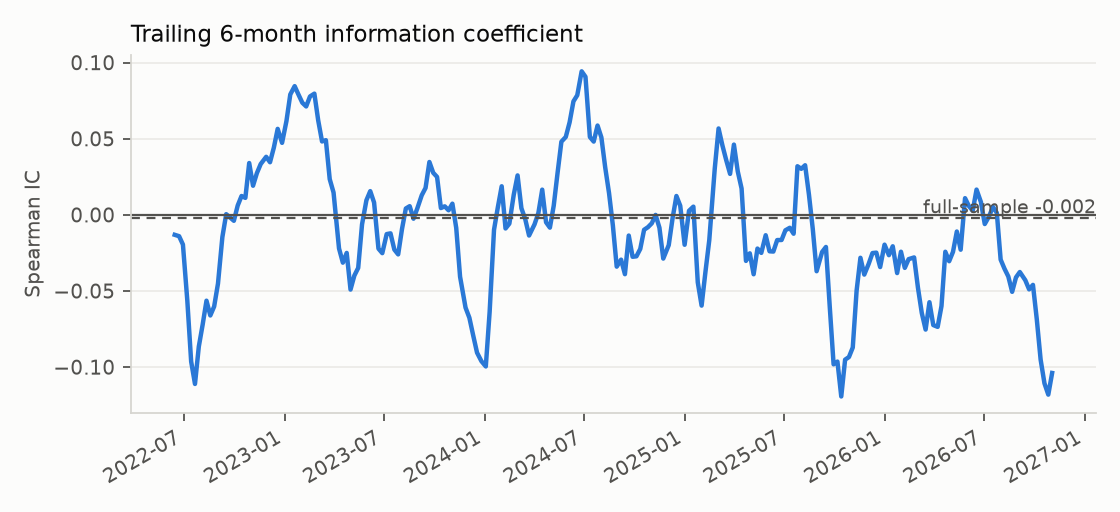
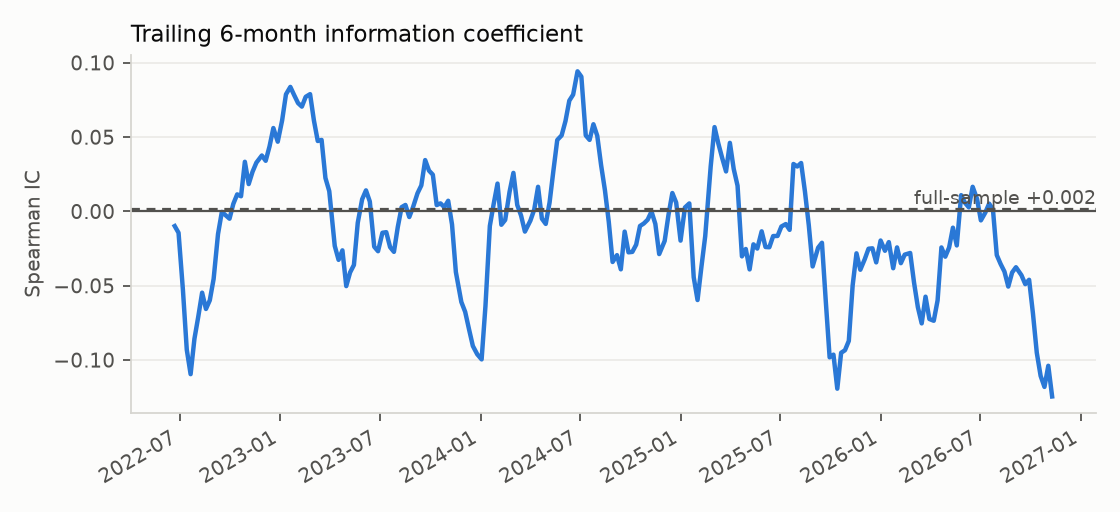
Signal evaluation for 2026-11-21

diff --git a/docs/evaluation.md b/docs/evaluation.md
@@ -6,14 +6,14 @@ performance relative to the S&P 500 over the next 5 trading days?**
 
 ## Summary
 
-*Last evaluated 2026-11-14 on 18,590 ticker-days (2021-12-14 to 2026-11-06), 5-day horizon, data: yahoo.*
+*Last evaluated 2026-11-21 on 18,615 ticker-days (2021-12-21 to 2026-11-13), 5-day horizon, data: yahoo.*
 
 | Metric | Estimate | 95% CI |
 |---|---:|---:|
-| Rank IC: score vs forward return over SPY | -0.002 | [-0.041, +0.035] |
-| Rank IC, non-overlapping windows only | -0.002 | |
-| Mean return gap: POSITIVE-or-better minus WEAK | +0.39% | [-0.22%, +0.91%] |
-| Out-of-sample AUC: hand weights vs learned weights | 0.493 vs 0.499 | |
+| Rank IC: score vs forward return over SPY | +0.002 | [-0.041, +0.035] |
+| Rank IC, non-overlapping windows only | +0.002 | |
+| Mean return gap: POSITIVE-or-better minus WEAK | +0.42% | [-0.22%, +0.97%] |
+| Out-of-sample AUC: hand weights vs learned weights | 0.494 vs 0.495 | |
 
 The 95% interval for the IC includes zero, so the data do not support a claim that the score predicts forward relative returns. That is a legitimate finding: the score is useful as a description of today's move, not as a forecast.
 
@@ -22,7 +22,7 @@ The 95% interval for the IC includes zero, so the data do not support a claim th
 ## Setup
 
 - **Universe:** ALAB, AMD, AMZN, BE, CEG, DELL, ETN, FSLR, GEV, GOOG, IBM, MRVL, NVDA, SKHY, SPCX, TSLA, TSM, VST; benchmark SPY.
-- **Sample:** 1,230 trading days, 18,590 ticker-days with a full score.
+- **Sample:** 1,230 trading days, 18,615 ticker-days with a full score.
   Rows labelled *INSUFFICIENT DATA* (too little history, e.g. right after an IPO) are excluded.
 - **Target:** 5-day forward return minus SPY's forward return over the same days.
 - **No look-ahead:** every indicator at day *t* uses data through the close of *t* only;
@@ -37,10 +37,10 @@ The 95% interval for the IC includes zero, so the data do not support a claim th
 
 | label | n | mean | ci_lo | ci_hi | median | hit_rate |
 |---|---:|---:|---:|---:|---:|---:|
-| STRONG PRICE/VOLUME | 1,542 | +0.83% | +0.10% | +1.67% | +0.28% | 52.3% |
-| POSITIVE | 3,836 | +0.77% | +0.29% | +1.27% | +0.27% | 52.7% |
-| WATCH | 3,972 | +0.58% | +0.11% | +1.07% | +0.20% | 51.7% |
-| WEAK | 9,240 | +0.40% | -0.02% | +0.82% | +0.18% | 51.8% |
+| STRONG PRICE/VOLUME | 1,538 | +0.82% | +0.12% | +1.69% | +0.29% | 52.3% |
+| POSITIVE | 3,834 | +0.76% | +0.26% | +1.19% | +0.26% | 52.5% |
+| WATCH | 3,974 | +0.57% | +0.02% | +1.06% | +0.20% | 51.8% |
+| WEAK | 9,269 | +0.35% | -0.06% | +0.82% | +0.15% | 51.5% |
 
 ## Stability
 
@@ -50,35 +50,35 @@ The full-sample IC can hide periods where the relationship flips sign.
 
 | year | n | ic |
 |---|---:|---:|
-| 2021 | 169 | +0.215 |
-| 2022 | 3,473 | +0.016 |
-| 2023 | 3,500 | -0.061 |
+| 2021 | 104 | +0.281 |
+| 2022 | 3,473 | +0.018 |
+| 2023 | 3,500 | -0.062 |
 | 2024 | 3,876 | +0.037 |
 | 2025 | 4,000 | -0.002 |
-| 2026 | 3,572 | -0.064 |
+| 2026 | 3,662 | -0.046 |
 
 By ticker:
 
 | ticker | n | ic | first_date |
 |---|---:|---:|---:|
-| ALAB | 642 | +0.105 | 2024-04-18 |
-| AMD | 1,230 | +0.029 | 2021-12-14 |
-| AMZN | 1,230 | -0.098 | 2021-12-14 |
-| BE | 1,230 | +0.023 | 2021-12-14 |
-| CEG | 1,176 | +0.004 | 2022-03-03 |
-| DELL | 1,230 | -0.039 | 2021-12-14 |
-| ETN | 1,230 | -0.045 | 2021-12-14 |
-| FSLR | 1,230 | -0.061 | 2021-12-14 |
-| GEV | 634 | -0.006 | 2024-04-30 |
-| GOOG | 1,230 | -0.008 | 2021-12-14 |
-| IBM | 1,230 | +0.025 | 2021-12-14 |
-| MRVL | 1,230 | -0.035 | 2021-12-14 |
-| NVDA | 1,230 | -0.023 | 2021-12-14 |
-| SKHY | 65 | -0.261 | 2026-08-07 |
-| SPCX | 83 | -0.030 | 2026-07-14 |
-| TSLA | 1,230 | +0.022 | 2021-12-14 |
-| TSM | 1,230 | -0.014 | 2021-12-14 |
-| VST | 1,230 | +0.022 | 2021-12-14 |
+| ALAB | 647 | +0.108 | 2024-04-18 |
+| AMD | 1,230 | +0.032 | 2021-12-21 |
+| AMZN | 1,230 | -0.101 | 2021-12-21 |
+| BE | 1,230 | +0.028 | 2021-12-21 |
+| CEG | 1,181 | +0.002 | 2022-03-03 |
+| DELL | 1,230 | -0.032 | 2021-12-21 |
+| ETN | 1,230 | -0.038 | 2021-12-21 |
+| FSLR | 1,230 | -0.063 | 2021-12-21 |
+| GEV | 639 | +0.003 | 2024-04-30 |
+| GOOG | 1,230 | -0.007 | 2021-12-21 |
+| IBM | 1,230 | +0.021 | 2021-12-21 |
+| MRVL | 1,230 | -0.030 | 2021-12-21 |
+| NVDA | 1,230 | -0.009 | 2021-12-21 |
+| SKHY | 70 | -0.182 | 2026-08-07 |
+| SPCX | 88 | -0.047 | 2026-07-14 |
+| TSLA | 1,230 | +0.024 | 2021-12-21 |
+| TSM | 1,230 | -0.009 | 2021-12-21 |
+| VST | 1,230 | +0.024 | 2021-12-21 |
 
 ## Baselines and ablation
 
@@ -89,19 +89,19 @@ re-scores the full history with one component removed and the rest re-weighted t
 
 | signal | ic |
 |---|---:|
-| Composite score (this model) | -0.002 |
-| 20-day return only (momentum) | +0.011 |
-| 20-day return vs SPY only | +0.013 |
+| Composite score (this model) | +0.002 |
+| 20-day return only (momentum) | +0.015 |
+| 20-day return vs SPY only | +0.016 |
 | RVOL20 only | +0.020 |
-| Shuffled score (null) | +0.005 |
+| Shuffled score (null) | +0.003 |
 
 | removed | ic | change |
 |---|---:|---:|
-| trend | +0.003 | +0.005 |
-| volume | -0.002 | -0.000 |
-| breakout | -0.005 | -0.003 |
-| momentum | -0.001 | +0.001 |
-| relative_strength | -0.003 | -0.001 |
+| trend | +0.006 | +0.005 |
+| volume | +0.002 | -0.000 |
+| breakout | -0.001 | -0.003 |
+| momentum | +0.003 | +0.001 |
+| relative_strength | +0.001 | -0.001 |
 
 A negative *change* means removing the component hurts, i.e. it was contributing.
 
@@ -112,12 +112,12 @@ differently, a logistic regression on the five component scores is refit every q
 expanding window and used only to score later dates. A 5-day gap separates
 each training cut-off from the test period so overlapping targets cannot leak.
 
-Out-of-sample period: 2022-12-14 onward, 15,116 ticker-days.
+Out-of-sample period: 2022-12-21 onward, 15,136 ticker-days.
 
 | Model | AUC (target: beats SPY) | Spearman IC |
 |---|---:|---:|
-| Hand-weighted score | 0.493 | -0.013 |
-| Walk-forward logistic regression | 0.499 | -0.017 |
+| Hand-weighted score | 0.494 | -0.011 |
+| Walk-forward logistic regression | 0.495 | -0.021 |
 
 Learning the weights from data does not beat the hand-chosen weights out of sample. With this little data, the simpler fixed-weight model is preferable.
 

diff --git a/docs/premarket_evaluation.md b/docs/premarket_evaluation.md
@@ -7,13 +7,13 @@ close, relative to SPY over the same hours?**
 
 ## Summary
 
-*Last evaluated 2026-11-14 on 11,634 ticker-days (2023-11-15 to 2026-11-13), pre-market bars through 08:30 ET, data: alpaca-sip.*
+*Last evaluated 2026-11-21 on 11,666 ticker-days (2023-11-22 to 2026-11-20), pre-market bars through 08:30 ET, data: alpaca-sip.*
 
 | Metric | Estimate | 95% CI |
 |---|---:|---:|
-| Rank IC: pre-market score vs open-to-close return over SPY | -0.030 | [-0.055, -0.002] |
-| Mean return gap: POSITIVE-or-better minus WEAK | +0.00% | [-0.16%, +0.20%] |
-| Rank IC: gap vs SPY alone (negative = gaps fade) | -0.013 | |
+| Rank IC: pre-market score vs open-to-close return over SPY | -0.025 | [-0.055, -0.003] |
+| Mean return gap: POSITIVE-or-better minus WEAK | +0.03% | [-0.17%, +0.20%] |
+| Rank IC: gap vs SPY alone (negative = gaps fade) | -0.012 | |
 
 The 95% interval is entirely below zero: strong pre-market setups have tended to *underperform* SPY after the open, consistent with gaps fading during the session.
 
@@ -21,7 +21,7 @@ The 95% interval is entirely below zero: strong pre-market setups have tended to
 ## Setup
 
 - **Universe:** ALAB, AMD, AMZN, BE, CEG, DELL, ETN, FSLR, GEV, GOOG, IBM, MRVL, NVDA, SKHY, SPCX, TSLA, TSM, VST; benchmark SPY.
-- **Sample:** 752 trading days, 11,634 ticker-days with a full pre-market score.
+- **Sample:** 752 trading days, 11,666 ticker-days with a full pre-market score.
   0 ticker-days with a gap larger than 40% were dropped as
   likely data errors or corporate actions.
 - **Data:** Alpaca SIP feed (trades from every U.S. exchange), 30-minute bars over about 3 years, split-adjusted. Includes pre-market volume.
@@ -38,21 +38,21 @@ The 95% interval is entirely below zero: strong pre-market setups have tended to
 
 | label | n | mean | ci_lo | ci_hi | median | hit_rate |
 |---|---:|---:|---:|---:|---:|---:|
-| STRONG PRICE/VOLUME | 405 | +0.09% | -0.19% | +0.38% | -0.10% | 47.4% |
-| POSITIVE | 747 | +0.04% | -0.11% | +0.26% | -0.01% | 49.7% |
-| WATCH | 1,929 | -0.09% | -0.25% | +0.04% | -0.04% | 48.9% |
-| WEAK | 8,553 | +0.05% | -0.03% | +0.14% | -0.02% | 49.7% |
+| STRONG PRICE/VOLUME | 405 | +0.08% | -0.20% | +0.37% | -0.12% | 47.2% |
+| POSITIVE | 730 | +0.06% | -0.13% | +0.26% | +0.02% | 50.4% |
+| WATCH | 1,924 | -0.10% | -0.25% | +0.03% | -0.05% | 48.8% |
+| WEAK | 8,607 | +0.03% | -0.03% | +0.13% | -0.03% | 49.4% |
 
 ## Baselines
 
 | signal | ic |
 |---|---:|
-| Pre-market score (this model) | -0.030 |
-| Gap vs SPY only | -0.013 |
-| Gap / ATR only | -0.012 |
-| Pre-market RVOL only | +0.002 |
-| Prior close end-of-day score only | -0.028 |
-| Shuffled score (null) | -0.005 |
+| Pre-market score (this model) | -0.025 |
+| Gap vs SPY only | -0.012 |
+| Gap / ATR only | -0.011 |
+| Pre-market RVOL only | +0.000 |
+| Prior close end-of-day score only | -0.021 |
+| Shuffled score (null) | +0.007 |
 
 The gap rows answer a classic market-microstructure question directly: a negative IC means
 pre-market moves have tended to reverse after the open (gap fade); a positive IC means they
@@ -62,10 +62,10 @@ have tended to extend (gap continuation).
 
 | removed | ic | change |
 |---|---:|---:|
-| gap | -0.027 | +0.002 |
-| volume | -0.025 | +0.005 |
-| level | -0.033 | -0.003 |
-| context | -0.022 | +0.008 |
+| gap | -0.022 | +0.003 |
+| volume | -0.019 | +0.006 |
+| level | -0.029 | -0.004 |
+| context | -0.019 | +0.006 |
 
 A negative *change* means removing the component lowers the IC, i.e. it was contributing.
 
@@ -73,24 +73,24 @@ A negative *change* means removing the component lowers the IC, i.e. it was cont
 
 | ticker | n | ic | mean_gap_abs |
 |---|---:|---:|---:|
-| ALAB | 647 | -0.012 | 2.05% |
-| AMD | 752 | +0.020 | 1.52% |
-| AMZN | 752 | -0.024 | 0.80% |
-| BE | 751 | -0.010 | 2.05% |
-| CEG | 679 | -0.014 | 1.09% |
-| DELL | 747 | -0.064 | 1.39% |
-| ETN | 559 | -0.080 | 1.07% |
-| FSLR | 741 | -0.032 | 1.10% |
-| GEV | 635 | -0.089 | 1.23% |
-| GOOG | 752 | -0.024 | 0.79% |
-| IBM | 738 | +0.001 | 0.64% |
-| MRVL | 752 | -0.057 | 1.81% |
-| NVDA | 752 | -0.070 | 1.17% |
-| SKHY | 76 | +0.014 | 2.97% |
-| SPCX | 94 | +0.041 | 1.48% |
-| TSLA | 752 | -0.034 | 1.26% |
-| TSM | 752 | -0.112 | 1.24% |
-| VST | 703 | -0.020 | 1.30% |
+| ALAB | 652 | -0.006 | 2.07% |
+| AMD | 752 | +0.022 | 1.54% |
+| AMZN | 752 | -0.029 | 0.80% |
+| BE | 751 | -0.007 | 2.07% |
+| CEG | 682 | -0.006 | 1.09% |
+| DELL | 747 | -0.052 | 1.41% |
+| ETN | 563 | -0.076 | 1.08% |
+| FSLR | 741 | -0.029 | 1.10% |
+| GEV | 640 | -0.079 | 1.25% |
+| GOOG | 752 | -0.026 | 0.79% |
+| IBM | 738 | +0.002 | 0.64% |
+| MRVL | 752 | -0.047 | 1.83% |
+| NVDA | 752 | -0.062 | 1.18% |
+| SKHY | 81 | +0.024 | 3.01% |
+| SPCX | 99 | +0.004 | 1.51% |
+| TSLA | 752 | -0.034 | 1.27% |
+| TSM | 752 | -0.101 | 1.26% |
+| VST | 708 | -0.016 | 1.31% |
 
 ## Limitations
 

diff --git a/README.md b/README.md
@@ -24,10 +24,10 @@
 ## Key findings
 
 <!-- FINDINGS-EOD:START -->
-- **End-of-day signal: no evidence of predictive power.** The rank IC between the score and the next 5 days' return over SPY is -0.002 (95% CI -0.041 to +0.035) across 18,590 stock-days; a randomly shuffled score gets +0.005.
+- **End-of-day signal: no evidence of predictive power.** The rank IC between the score and the next 5 days' return over SPY is +0.002 (95% CI -0.041 to +0.035) across 18,615 stock-days; a randomly shuffled score gets +0.003.
 <!-- FINDINGS-EOD:END -->
 <!-- FINDINGS-PM:START -->
-- **Pre-market signal: a small but statistically reliable negative association (strong readings were followed by underperformance).** The rank IC between the 08:30 ET pre-market score and the same day's open-to-close return over SPY is -0.030 (95% CI -0.055 to -0.002) across 11,634 stock-days; a randomly shuffled score gets -0.005. On their own, the pre-market gap has an IC of -0.013 (negative would mean gaps fade) and pre-market volume +0.002.
+- **Pre-market signal: a small but statistically reliable negative association (strong readings were followed by underperformance).** The rank IC between the 08:30 ET pre-market score and the same day's open-to-close return over SPY is -0.025 (95% CI -0.055 to -0.003) across 11,666 stock-days; a randomly shuffled score gets +0.007. On their own, the pre-market gap has an IC of -0.012 (negative would mean gaps fade) and pre-market volume +0.000.
 <!-- FINDINGS-PM:END -->
 - **How it was tested:** a common trading belief, that moves confirmed by volume keep going, is
   turned into a transparent score and tested on end-of-day and pre-market data with
@@ -68,14 +68,14 @@ The project has two halves, each run on end-of-day and on pre-market data:
 ### End-of-day score → next 5 days
 
 <!-- EVAL:START -->
-*Last evaluated 2026-11-14 on 18,590 ticker-days (2021-12-14 to 2026-11-06), 5-day horizon, data: yahoo.*
+*Last evaluated 2026-11-21 on 18,615 ticker-days (2021-12-21 to 2026-11-13), 5-day horizon, data: yahoo.*
 
 | Metric | Estimate | 95% CI |
 |---|---:|---:|
-| Rank IC: score vs forward return over SPY | -0.002 | [-0.041, +0.035] |
-| Rank IC, non-overlapping windows only | -0.002 | |
-| Mean return gap: POSITIVE-or-better minus WEAK | +0.39% | [-0.22%, +0.91%] |
-| Out-of-sample AUC: hand weights vs learned weights | 0.493 vs 0.499 | |
+| Rank IC: score vs forward return over SPY | +0.002 | [-0.041, +0.035] |
+| Rank IC, non-overlapping windows only | +0.002 | |
+| Mean return gap: POSITIVE-or-better minus WEAK | +0.42% | [-0.22%, +0.97%] |
+| Out-of-sample AUC: hand weights vs learned weights | 0.494 vs 0.495 | |
 
 The 95% interval for the IC includes zero, so the data do not support a claim that the score predicts forward relative returns. That is a legitimate finding: the score is useful as a description of today's move, not as a forecast.
 
@@ -85,13 +85,13 @@ Full write-up: [docs/evaluation.md](docs/evaluation.md)
 ### Pre-market score → same-day open-to-close
 
 <!-- PREMARKET-EVAL:START -->
-*Last evaluated 2026-11-14 on 11,634 ticker-days (2023-11-15 to 2026-11-13), pre-market bars through 08:30 ET, data: alpaca-sip.*
+*Last evaluated 2026-11-21 on 11,666 ticker-days (2023-11-22 to 2026-11-20), pre-market bars through 08:30 ET, data: alpaca-sip.*
 
 | Metric | Estimate | 95% CI |
 |---|---:|---:|
-| Rank IC: pre-market score vs open-to-close return over SPY | -0.030 | [-0.055, -0.002] |
-| Mean return gap: POSITIVE-or-better minus WEAK | +0.00% | [-0.16%, +0.20%] |
-| Rank IC: gap vs SPY alone (negative = gaps fade) | -0.013 | |
+| Rank IC: pre-market score vs open-to-close return over SPY | -0.025 | [-0.055, -0.003] |
+| Mean return gap: POSITIVE-or-better minus WEAK | +0.03% | [-0.17%, +0.20%] |
+| Rank IC: gap vs SPY alone (negative = gaps fade) | -0.012 | |
 
 The 95% interval is entirely below zero: strong pre-market setups have tended to *underperform* SPY after the open, consistent with gaps fading during the session.
 
